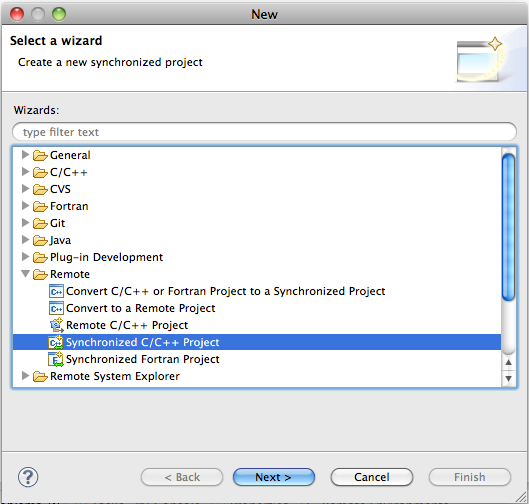
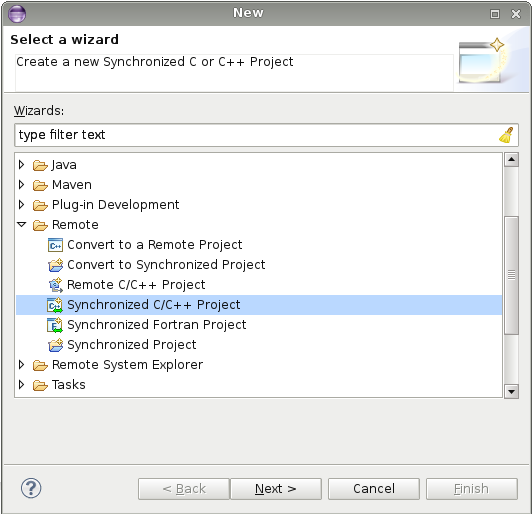
Update documentation for synchronized projects, especially:
1) New support for "generic" synchronized projects.
2) Sync configurations vs build configurations - previously we only
   had build configurations.

Changed region(s): [[0.0, 0.0, 1.0, 1.0], [0.4537, 0.0893, 0.5444, 0.1488], [0.8469, 0.119, 0.8771, 0.1488]]

diff --git a/core/org.eclipse.ptp.doc.user/html/sync.html b/core/org.eclipse.ptp.doc.user/html/sync.html
@@ -32,16 +32,16 @@ Note that this is completely independent of using <a href="http://git-scm.com/">
 <h2 id=create>Creating a new Synchronized Project</h2>
 <p>To create a new Synchronized Project, first select an appropriate wizard:</p>
 Select <b>File > New > Other...</b>
-then in the wizard selection dialog, select <b>Remote > Synchronized C/C++ Project</b> or <b>Synchronized Fortran Project</b>
+then in the wizard selection dialog, select <b>Remote > Synchronized C/C++ Project</b>, <b>Synchronized Fortran Project</b>, or <b>Synchronized Project</b> for synchronization only without support for a specific language.
 <p><br></p>
 <p><img src="images/sync-newproj.png">
 <p><br></p>
 <p>Or, from the context menu (right-mouse) in the Project Explorer of the C/C++ Perspective,
-select <b>New > Synchronized C/C++ Project</b> or <b>Synchronized Fortran Project</b>
+select <b>New > Synchronized C/C++ Project</b>, <b>Synchronized Fortran Project</b>, or <b>Synchronized Project</b> for synchronization only without support for a specific language.
 <p><br></p>
 <p><img src="images/sync-newprojContext.png">
 <p><br></p>
-<p id="new-sync-proj">Now fill out the <b>New Synchronized Project</b> dialog shown.
+<p id="new-sync-proj">Now fill out the <b>New Synchronized Project</b> dialog shown. The dialog for synchronization only will not contain the lower portion for selecting project types and toolchains.
 
 <p>
 <img src="images/sync-newprojCreate.png">
@@ -75,7 +75,7 @@ From here, you can configure build properties. (This can also be done after the 
 Note that if you select the same toolchain for both local and remote, only one configuration is shown.
 During project creation, this configuration will be duplicated, creating one for local and another for remote.
 <p>
-If you then select <b>Next ></b> instead of <b>Finish</b>, the <b>Default Build Configurations</b> page appears.
+If you then select <b>Next ></b> instead of <b>Finish</b>, the <b>Default Build Configurations</b> page appears. See <a href="#work">Working with a Synchronized Project</a> for more information on sync configs and build configs.
 <p><img src="images/sync-build-config.png"></p>
 <p>&nbsp;
 <p>Select <b>Finish</b> to end the New Project Wizard.
@@ -92,15 +92,20 @@ and select the <b>Browse...</b> button or some other communication is required.
 <br></p>
 
 <h2 id="work">Working with a Synchronized Project</h2>
-<p>The starting configuration will be for one of the toolchains with a connection to a remote system.
+<p>In Eclipse Kepler, the settings for synchronization and for building have been separated. For the former, "sync configurations" are used and are available in all synchronized projects. These are used mainly to specify where (machine and directory) local files should be synchronized. For building, "build configurations" are used and are only available for synchronized C, C++, or Fortran projects. They are used to configure build parameters, such as the compiler and compiler options. These two configuration types operate mostly independently, and sync'ing or building always uses the current "active" sync or build configuration, respectively.
+
+<p>The only dependence is that builds occur, by default, at the location specified by the active sync configuration. Also, you can specify a default build configuration for each sync configuration. When switching to a different sync configuration, its default build configuration is automatically selected. This is only for convenience, so that two settings do not need to be changed when switching to a different remote. You can also change the build configuration independently of the sync configuration. It is common to have multiple types of builds, say a "debug" and a "release" build, for the same source location or even to use the same build configuration for multiple remote locations (sync configurations).
+
+<p>The starting sync configuration will be for the remote system with its default build configuration, if selected in the wizard.
 Thus, for the most common case (a single remote site to be modified and built), a synchronized project works out-of-the-box.
 If the remote location does not exist, it is created. Otherwise, the files in that directory will be synchronized to the local workspace.
 Edit the files as you would any local project.
 Each time you save a file, it will be synchronized with the remote system.
 If you create or delete files, the remote system will be updated appropriately.
+Note that a local sync config is always created for convenience, even if no local tool chain was selected.
+It provides a simple way to disable all remote operations and work locally without changing other sync settings.
 </p>
 <p>
-By default, a synchronized project is configured to build on the same remote host as for synchronization.
 To build the project (assuming you have already created a makefile), make sure the project is selected in the <b>Project Explorer</b> view, then click
 on the build icon (the icon that looks like a hammer). The Console view shows the results of the build.
 <p>For more examples of creating and building a simple new Synchronized project, see
@@ -109,11 +114,6 @@ on the build icon (the icon that looks like a hammer). The Console view shows th
 For more details see <a href="build.html">Building Synchronized Projects</a>
 <p>
 
-<p>Projects can have multiple build configurations. 
-Each build configuration specifies a different set of options for a build.
-Build configurations and synchronize configurations are independent. 
-A build configuration can be associated with a synchronize configuration, so that it is
-automatically selected when the synchronize configuration is changed.
 <p>
 For more information on build configurations, sync configurations, etc. see
 <a href="build.html#syncConfig">Sync Configurations</a> on the 
@@ -125,9 +125,9 @@ To access the sync context menu, right-click on the project in the <b>Project Ex
 move down to the <b>Synchronize</b> sub-menu.
 <p><img src="images/sync-contextMenu.png"></p>
 <p>
-From this menu, you can force a synchronization immediately for the active configuration,
-Set the active configuration, Manage configurations (sync configurations and their associated build configurations),
-force a sync of all the configs, etc.
+From this menu, you can force a synchronization immediately for the active sync configuration,
+Set the active sync configuration, Manage configurations (sync configurations and their associated build configurations),
+force a sync of all the sync configs, etc.
 <b>Auto-sync (Global)</b> and <b>Auto-sync Settings</b> allow you to alter the behavior of automatic sync'ing
 for all projects or per project.
 <p> 
@@ -161,11 +161,11 @@ allows setting sync filter settings as a project is created, and
 <p>Parts of the <b>Configure Synchronize Project Filters</b> dialog for an existing project:
 <ul>
 <li>The <b>files/folders</b> list at the top indicates the currently excluded and included directories and files 
-for the currently selected project
-- based on the patterns and selections beneath it. 
+for the currently selected project.
 (Not included on the <a href="#prefs">Sync Preferences</a> page.)
+You can select (include) or unselect (exclude) individual files and folders, which will add a corresponding pattern to the <b>Patterns</b> area.
 <li>The <b>Patterns</b> area near the bottom shows the current exclude and include patterns. Patterns
-can be added, editing, or removed.  The results will be shown above in the files/folders list.
+can be added, edited, or removed.  The results will be shown above in the files/folders list.
 </ul>
 <p><img src="images/sync-filter-dialog.png">
 <p>
@@ -175,8 +175,6 @@ By default, remote files are not shown. Showing remote files may lead to a slowe
 Check <b>Show remote files</b> if you wish to view them.
 An error message is printed if the remote system is disconnected.
 <p>
-You can select or deselect directories or files in the <b>files/folders</b> list, which will add the corresponding 
-exclude or include pattern to the <b>Patterns</b> area. 
 <p>To enter a new pattern, select the <b>Add...</b> button. 
 The <b>Add Pattern</b> dialog appears.
 <p><img src="images/sync-filter-add-dialog.png"></p>
@@ -188,7 +186,7 @@ The <b>Add Pattern</b> dialog appears.
 <li>path ends in / matches only directory
 </ul>
 <p>Select the radio button beneath the <b>Pattern:</b> field
-to indicate the should be included or excluded in the synchronization.  Default is excluded.
+to indicate whether the pattern should be included or excluded in the synchronization.  Default is excluded.
 
 
 <p>
@@ -216,8 +214,8 @@ the synchronization.
 
 <h2 id="conversion-wizard">Converting a project to a Synchronized Project</h2>
 <p>
-The conversion wizard allows you to convert current C/C++ or Fortran projects to synchronized projects. 
-Currently only local projects can be converted. 
+The conversion wizard allows you to convert any project type to a synchronized project.
+Currently only local projects can be converted.
 To convert a project, right-click in the <b>Project Explorer</b> view and select <b>New > Other...</b> 
 In the wizard selection dialog, select <b> Remote > Convert to Synchronized Project</b> and select <b>Next></b>.
 <p><img src="images/sync-selectConversionWizard.png"></p>
@@ -227,8 +225,7 @@ From this dialog, you can select a project to convert.
 <p><img src="images/sync-conversionWizard.png"><p>
 <p>Select a local project to convert it to a synchronized project.
 Select a connection (or <a href="remoteTools.html#create"></a>create a new connection</a>.)
-<p>Select <b>Next></b> and in the next dialog, select the Build Configurations for each Sync Configuration
-to be duplicated on the remote system.
+<p>Select <b>Next></b> and in the next dialog, select the default Build Configurations for each Sync Configuration (only for C, C++, or Fortran projects).
 <p><img src="images/sync-conversionWizard2.png"><p>
 <p>Select <b>Finish</b> and the project is synchronized (copied) to the remote system specified by the connection.
 <!-- 

diff --git a/core/org.eclipse.ptp.doc.user/html/build.html b/core/org.eclipse.ptp.doc.user/html/build.html
@@ -18,10 +18,12 @@ some info in sync.html and modules.html  -->
 </ul>
 <h2 id="buildConfig">Build Configurations</h2>
 <p>A build configuration provides the necessary information to build the project.
-<p>A synchronized project may have both a local and remote build configuration, 
-or it may have only a build configuration for the remote target.
-If both local and remote toolchains were specified when the project was created, 
-the remote build configuration will usually be the default.
+Note that only C, C++, or Fortran synchronized projects will have build configurations.
+<p>A project's build configurations are initially based on the selected project type and selected remote and local tool chains,
+but really there is no restriction on which host a build configuration can be used.
+It is common to use the same build configuration for both remote and local hosts.
+The distinction of "remote" vs "local" only applies to sync configurations.
+
 <p>The build configuration information is specified in the project properties.
 <p>Open the 
 <a href="misc.html#projProps">Project Properties</a>
@@ -55,9 +57,7 @@ The default build command is "make" but this can be changed to anything.
 
 <h2 id="selectBuildConfig">Selecting a Build Configuration</h2>
 <p>Multiple build configurations may be available for a project.
-Synchronized projects will usually have a remote and a local build configuration
-(the local build configuration is optional).
-Build configurations can be specified for different architectures on different remote target platforms.
+Build configurations can be specified for different architectures on different target platforms.
 <p>The active build configuration will be used when the build button 
 <img src="images/01sync-hammer-icon.png">
 is selected.
